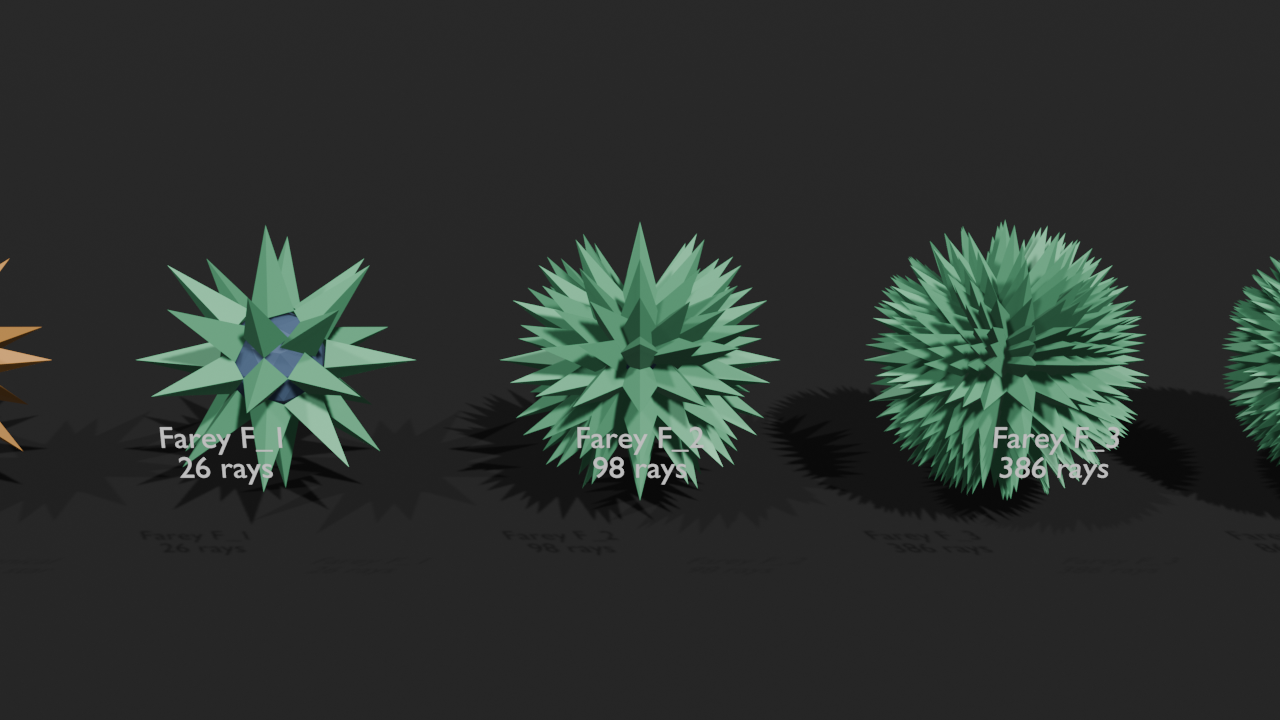
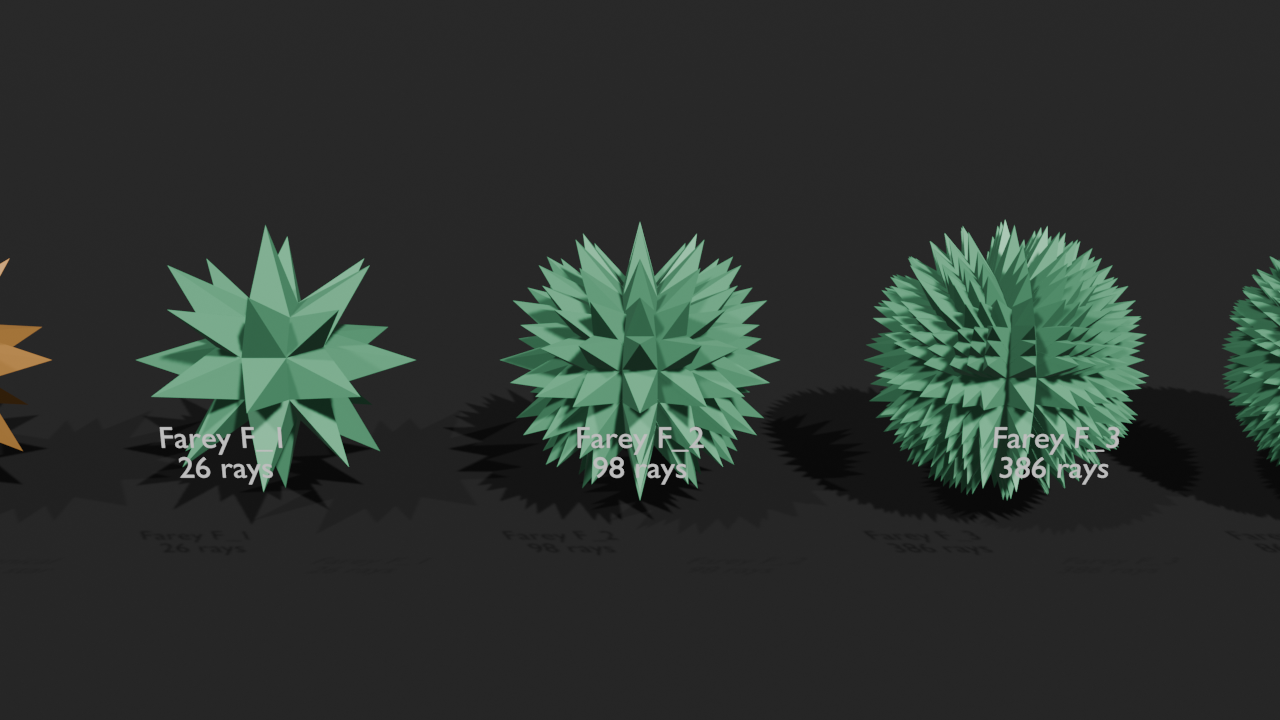
Ensure canonical spike base alignments and CCW winding order

diff --git a/moravian_farey.py b/moravian_farey.py
@@ -52,8 +52,10 @@ except ImportError:
         def __init__(self, values):
             if isinstance(values, Vector):
                 self.values = list(values.values)
-            else:
+            elif isinstance(values, (list, tuple)):
                 self.values = [float(x) for x in values]
+            else:
+                self.values = [float(values)]
 
         @property
         def x(self):
@@ -486,6 +488,9 @@ def tangent_basis(direction):
     u = d.cross(ref).normalized()
     v = d.cross(u).normalized()
 
+    if u.cross(v).dot(d) < 0:
+        v = v * -1.0
+
     return u, v
 
 
@@ -493,12 +498,107 @@ def tangent_basis(direction):
 # CREATE SPIKE
 # ============================================================
 
+def create_spike_base_vertices(key, d, base_radius):
+    """
+    Construct base vertices for a spike according to canonical Moravian star geometry.
+
+    For the canonical 26-point star (rhombicuboctahedron faces):
+    - Support 1 (6 axial spikes): square base aligned with coordinate axes.
+    - Support 2 (12 edge spikes): square base aligned with coordinate axes/edges.
+    - Support 3 (8 triangular spikes): equilateral triangle base aligned with coordinate projections.
+    - Higher order Farey rays: square base constructed via tangent basis.
+    """
+    x, y, z = float(key[0]), float(key[1]), float(key[2])
+    abs_coords = (abs(x), abs(y), abs(z))
+    center = d * base_radius
+
+    nz = [i for i, val in enumerate(abs_coords) if val != 0]
+
+    if len(nz) == 1:
+        # Axial square spike
+        idx = nz[0]
+        if idx == 0:
+            u, v = Vector((0, 1, 0)), Vector((0, 0, 1))
+        elif idx == 1:
+            u, v = Vector((1, 0, 0)), Vector((0, 0, 1))
+        else:
+            u, v = Vector((1, 0, 0)), Vector((0, 1, 0))
+
+        if u.cross(v).dot(d) < 0:
+            u, v = v, u
+
+        half = BASE_SIZE
+        verts = [
+            center + u * half + v * half,
+            center - u * half + v * half,
+            center - u * half - v * half,
+            center + u * half - v * half,
+        ]
+        return verts, 4
+
+    elif len(nz) == 2:
+        # Edge square spike
+        zero_idx = (set([0, 1, 2]) - set(nz)).pop()
+        if zero_idx == 0:
+            v_axis = Vector((1, 0, 0))
+        elif zero_idx == 1:
+            v_axis = Vector((0, 1, 0))
+        else:
+            v_axis = Vector((0, 0, 1))
+
+        u_axis = d.cross(v_axis).normalized()
+        if u_axis.cross(v_axis).dot(d) < 0:
+            u_axis = u_axis * -1.0
+
+        half = BASE_SIZE
+        verts = [
+            center + u_axis * half + v_axis * half,
+            center - u_axis * half + v_axis * half,
+            center - u_axis * half - v_axis * half,
+            center + u_axis * half - v_axis * half,
+        ]
+        return verts, 4
+
+    elif len(nz) == 3 and abs_coords[0] == abs_coords[1] == abs_coords[2]:
+        # Canonical body diagonal triangular spike
+        ex = Vector((1.0 if x > 0 else -1.0, 0, 0))
+        ey = Vector((0, 1.0 if y > 0 else -1.0, 0))
+        ez = Vector((0, 0, 1.0 if z > 0 else -1.0))
+
+        px = (ex - d * ex.dot(d)).normalized()
+        py = (ey - d * ey.dot(d)).normalized()
+        pz = (ez - d * ez.dot(d)).normalized()
+
+        if (py - px).cross(pz - px).dot(d) < 0:
+            py, pz = pz, py
+
+        scale = BASE_SIZE * 1.2
+        verts = [
+            center + px * scale,
+            center + py * scale,
+            center + pz * scale,
+        ]
+        return verts, 3
+
+    else:
+        # General Farey ray
+        u, v = tangent_basis(d)
+        half = BASE_SIZE
+        verts = [
+            center + u * half + v * half,
+            center - u * half + v * half,
+            center - u * half - v * half,
+            center + u * half - v * half,
+        ]
+        return verts, 4
+
+
 def create_spike(
     name,
+    key,
     direction,
     base_radius,
     tip_distance,
-    sides=4,
     material=None
 ):
     """
@@ -509,29 +609,12 @@ def create_spike(
         return None
 
     d = Vector(direction).normalized()
-
-    u, v = tangent_basis(d)
-
-    center = d * base_radius
     tip = d * tip_distance
 
-    vertices = []
+    base_verts, sides = create_spike_base_vertices(key, d, base_radius)
 
-    # Base polygon in CCW order around +d
-    for i in range(sides):
-
-        theta = 2.0 * math.pi * i / sides
-
-        p = (
-            center
-            + (math.cos(theta) * BASE_SIZE * u)
-            + (math.sin(theta) * BASE_SIZE * v)
-        )
-
-        vertices.append(tuple(p))
-
+    vertices = [tuple(p) for p in base_verts]
     tip_index = len(vertices)
-
     vertices.append(tuple(tip))
 
     faces = []
@@ -541,12 +624,8 @@ def create_spike(
 
     # Side faces (pointing outward)
     for i in range(sides):
-
         j = (i + 1) % sides
-
-        faces.append(
-            (i, j, tip_index)
-        )
+        faces.append((i, j, tip_index))
 
     return create_mesh_object(
         name,
@@ -610,30 +689,12 @@ def create_star(
 
         d = vector_from_key(key)
 
-        support = sum(
-            1 for value in key
-            if value != 0
-        )
-
-        # Canonical Moravian star:
-        #
-        # 1 or 2 non-zero coordinates -> square face
-        #
-        # 3 non-zero coordinates -> triangular face
-        #
-        # This reproduces the 18 square + 8 triangular
-        # face classes of the canonical 26-point star.
-        if support == 3:
-            sides = 3
-        else:
-            sides = 4
-
         obj = create_spike(
             f"{name}_Spike_{index:04d}",
+            key,
             d,
             INNER_RADIUS,
             TIP_RADIUS,
-            sides=sides,
             material=material
         )
 
